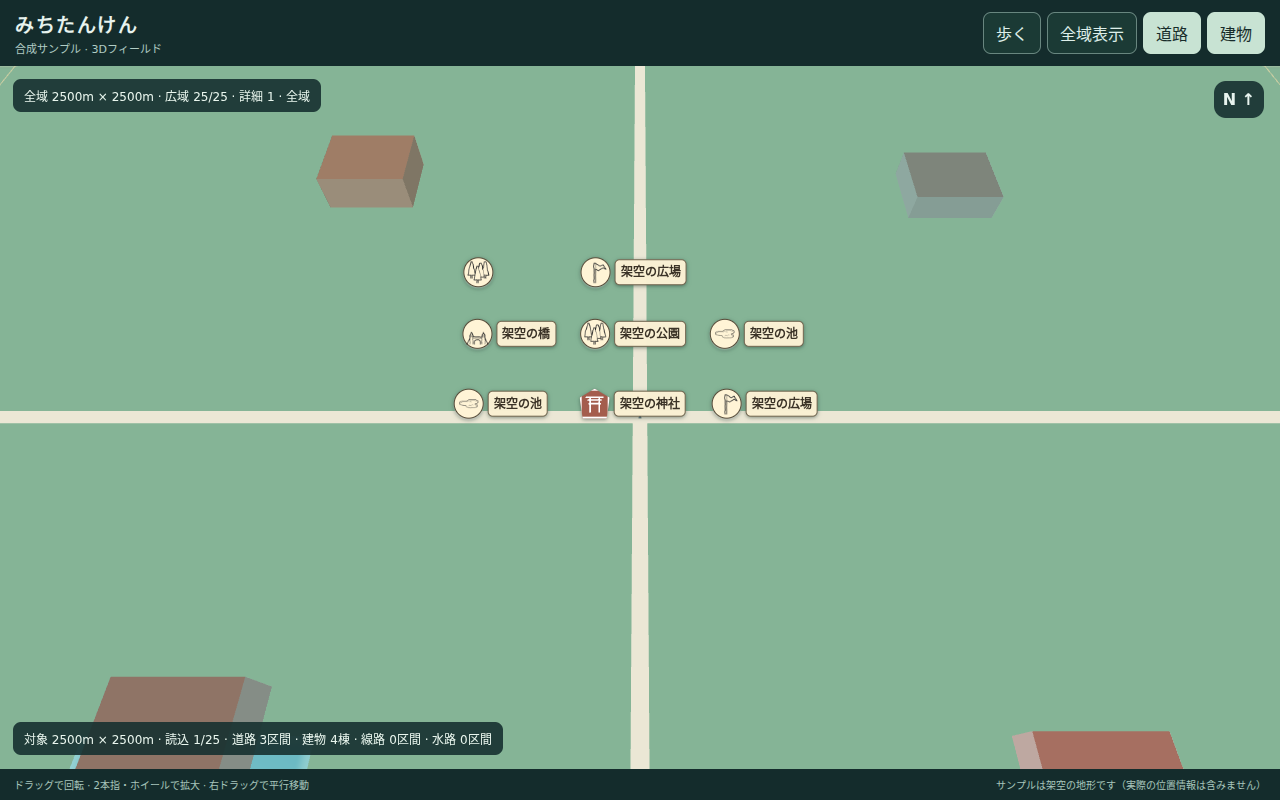
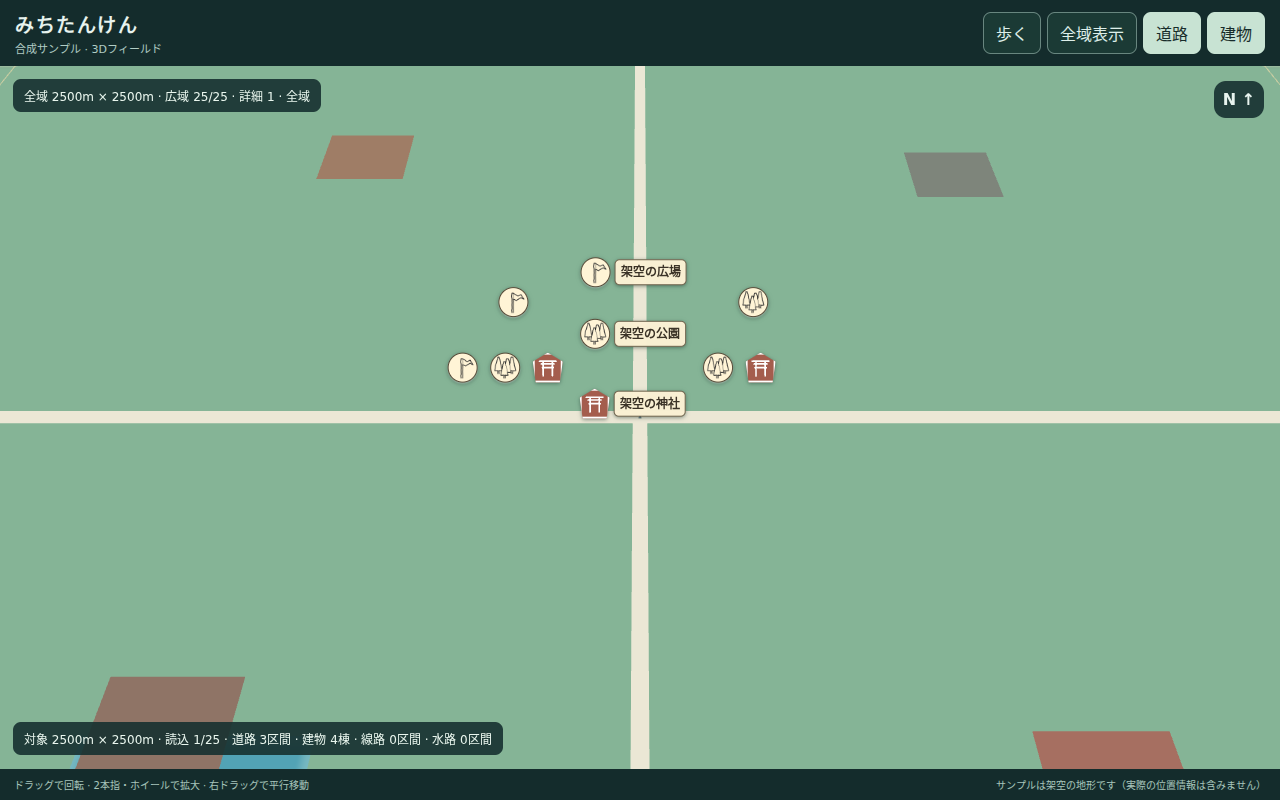
fix: suppress repeated landmark names in crowded overview

diff --git a/docs/mt02r-mt03.md b/docs/mt02r-mt03.md
@@ -60,6 +60,6 @@ Automated acceptance does not replace the user's actual design acceptance. Physi
 
 ## Validation result
 
-80 unit tests PASS. Existing browser regressions PASS: legacy 3×3 and 25-tile atlas, synthetic controller walk/map/pan/zoom/disconnect, sprite alpha/depth, keyboard/touch movement, POI edge/reload and full/overview building colours. The new fictional comparison runner passes desktop/mobile with 20 screenshots, including 40-point crowding, three audit overlays, near/far and bright/dim contrast. Normal play fetches no biome audit data. See `artifacts/mt02r-mt03/browser.json`, `regression.log`, `unit-tests.log`, and the PNGs in that directory. PRIVATE actual-field checks and hardware limitations are recorded only in the corresponding PRIVATE PR.
+81 unit tests PASS. Existing browser regressions PASS: legacy 3×3 and 25-tile atlas, synthetic controller walk/map/pan/zoom/disconnect, sprite alpha/depth, keyboard/touch movement, POI edge/reload and full/overview building colours. The new fictional comparison runner passes desktop/mobile with 20 screenshots, including 40-point crowding, three audit overlays, near/far and bright/dim contrast. Normal play fetches no biome audit data. See `artifacts/mt02r-mt03/browser.json`, `regression.log`, `unit-tests.log`, and the PNGs in that directory. PRIVATE actual-field checks and hardware limitations are recorded only in the corresponding PRIVATE PR.
 
 PNG byte hashes and the downloaded archive SHA256 are recorded in `src/assets/cartography/provenance.json`. The four included PNGs are unchanged from the official archive.
